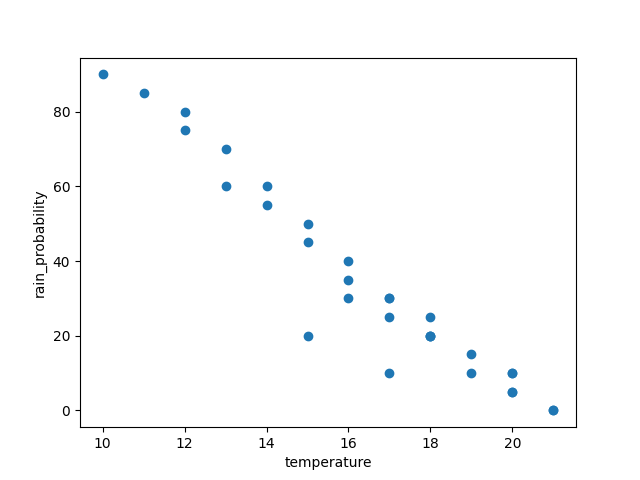
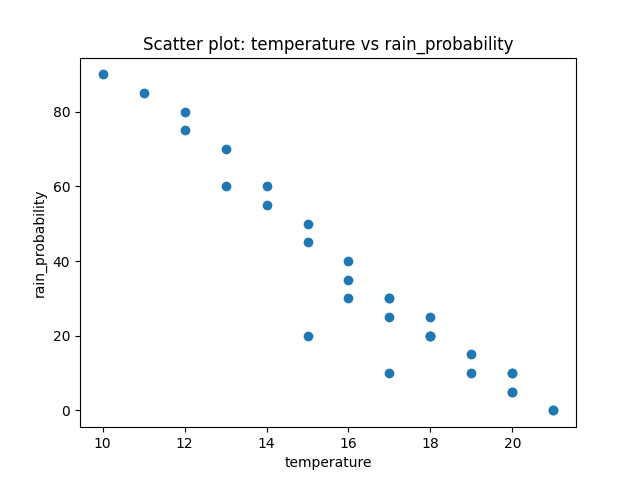
added images with captions

Changed region(s): [[0.2188, 0.0625, 0.8125, 0.125]]

diff --git a/src/visualizer/scatter_plot.py b/src/visualizer/scatter_plot.py
@@ -10,6 +10,7 @@ class ScatterPlot(Visualizer):
 
     def plot(self):
         plt.scatter(self.data[self.x_col], self.data[self.y_col])
+        plt.title(f"Scatter plot: {self.x_col} vs {self.y_col}")
         plt.xlabel(self.x_col)
         plt.ylabel(self.y_col)
         Exporter.export_plot(f'output/{self.x_col}_vs_{self.y_col}_scatter_plot.png')

diff --git a/src/visualizer/bar_chart.py b/src/visualizer/bar_chart.py
@@ -10,6 +10,7 @@ class BarChart(Visualizer):
 
     def plot(self):
         plt.bar(self.data[self.x_col], self.data[self.y_col])
+        plt.title(f"Bar chart: {self.x_col} vs {self.y_col}")
         plt.xlabel(self.x_col)
         plt.ylabel(self.y_col)
         Exporter.export_plot(f'output/{self.x_col}_vs_{self.y_col}_bar_chart.png')
